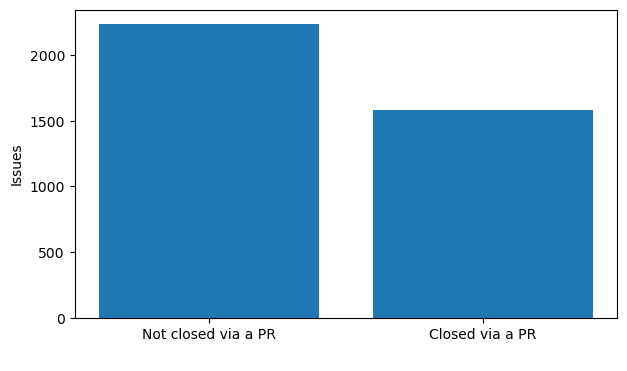
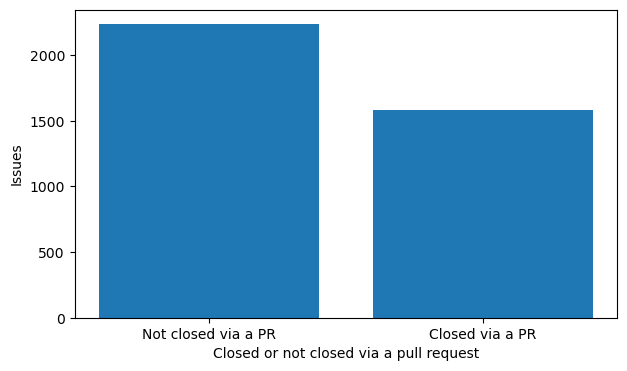
Figures rectified and their quality improved

Changed region(s): [[0.3333, 0.9191, 0.7576, 0.9784]]

diff --git a/Quantitative analysis/quantitative_analysis_script.py b/Quantitative analysis/quantitative_analysis_script.py
@@ -584,7 +584,7 @@ df_tied_issues['count_per_issue'] = df_tied_issues.groupby(issue_closed_type)['c
 issue_closed_type_count = df_tied_issues['count_per_issue']
 
 plt.bar(issue_closed_type,issue_closed_type_count)
-plt.xlabel(' ')
+plt.xlabel('Closed or not closed via a pull request')
 plt.ylabel('Issues')
 plt.savefig("Figures//issue_closed_via_pr.png",bbox_inches='tight')
 plt.clf()
